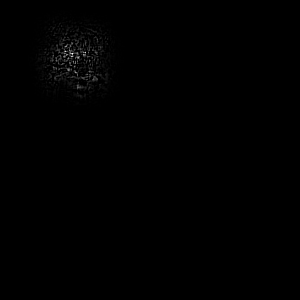
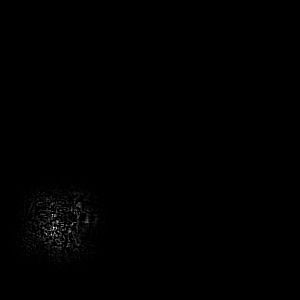
saliency results

Changed region(s): [[0.15, 0.12, 0.36, 0.3], [0.12, 0.66, 0.3, 0.84]]

diff --git a/saliency_map.py b/saliency_map.py
@@ -88,7 +88,7 @@ for category in args.classes:
     map = 255*map/map.max()
 
     vis = np.swapaxes(input.data.cpu().numpy()[0]+map, 0, 2)
-    cv2.imwrite(args.save_folder + args.input.split('.')[0] + '_saliency_' + str(category) + '.png', map)
+    cv2.imwrite(args.save_folder + args.input.split('.')[0] + '_saliency_' + str(category) + '.png', np.rot90(map))
     cv2.imwrite(args.save_folder + args.input.split('.')[0] + '_both_' + str(category) + '.png', vis)
 
     input.grad.data.zero_()
